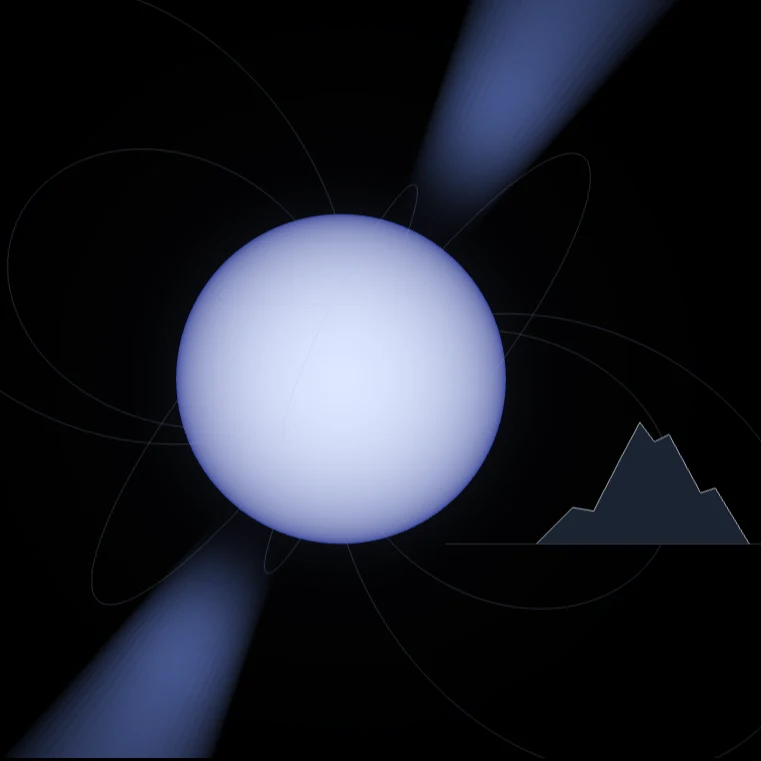
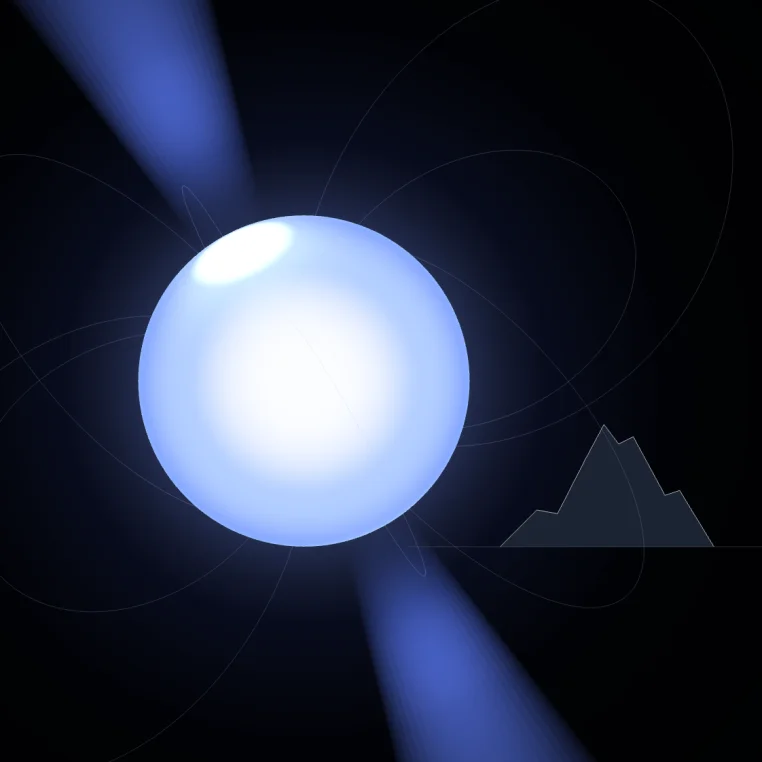
Restyle the neutron star scale and planets-at-Moon-distance simulations

diff --git a/src/components/simulations/planets-at-moon-distance/PlanetsAtMoonDistance.jsx b/src/components/simulations/planets-at-moon-distance/PlanetsAtMoonDistance.jsx
@@ -36,21 +36,51 @@ const SKY_VERTEX = /* glsl */ `
     gl_Position = projectionMatrix * modelViewMatrix * vec4(position, 1.0);
   }
 `;
-// Late dusk: warm near the horizon, deepening to night blue overhead, a little
-// brighter towards the set Sun (behind and to the right).
+// Late dusk: an orange band on the horizon, a rosy-violet layer above it, then
+// saturated twilight blue deepening to night overhead, a little brighter
+// towards the set Sun (behind and to the right). The first stars come out
+// where the sky is dark enough.
 const SKY_FRAGMENT = /* glsl */ `
   uniform vec3 uSun;
+  uniform float uTime;
+  uniform vec3 uBodyDir;
+  uniform float uBodyCos; // cos of the body's angular radius: no stars behind it
   varying vec3 vDir;
+  float hash(vec3 p) {
+    p = fract(p * vec3(443.897, 441.423, 437.195));
+    p += dot(p, p.yzx + 19.19);
+    return fract((p.x + p.y) * p.z);
+  }
   void main() {
     vec3 d = normalize(vDir);
     float h = max(d.y, 0.0);
-    vec3 zenith = vec3(0.004, 0.007, 0.022);
-    vec3 mid = vec3(0.016, 0.03, 0.08);
-    vec3 horizon = vec3(0.42, 0.2, 0.12);
-    vec3 col = mix(mid, zenith, smoothstep(0.05, 0.6, h));
-    col = mix(horizon, col, smoothstep(0.0, 0.14, h));
+    vec3 zenith = vec3(0.0015, 0.003, 0.016);
+    vec3 high = vec3(0.004, 0.012, 0.055);
+    vec3 low = vec3(0.012, 0.04, 0.13);
+    vec3 violet = vec3(0.12, 0.05, 0.13);
+    vec3 horizon = vec3(0.78, 0.26, 0.06);
+    vec3 col = mix(high, zenith, smoothstep(0.2, 0.75, h));
+    col = mix(low, col, smoothstep(0.06, 0.3, h));
+    col = mix(violet, col, smoothstep(0.02, 0.1, h));
+    col = mix(horizon, col, smoothstep(0.0, 0.045, h));
     float sunSide = pow(max(dot(normalize(vec3(d.x, 0.0, d.z)), normalize(vec3(uSun.x, 0.0, uSun.z))), 0.0), 3.0);
-    col += vec3(0.2, 0.09, 0.04) * sunSide * (1.0 - smoothstep(0.0, 0.25, h));
+    col += vec3(0.35, 0.12, 0.03) * sunSide * (1.0 - smoothstep(0.0, 0.2, h));
+
+    // Stars: one candidate per cell of a fine direction grid, fading out
+    // towards the brighter sky near the horizon, twinkling gently.
+    vec3 cell = floor(d * 260.0);
+    float r = hash(cell);
+    if (r > 0.985) {
+      vec3 centre = (cell + 0.5 + (vec3(hash(cell + 1.3), hash(cell + 2.7), hash(cell + 4.1)) - 0.5) * 0.6) / 260.0;
+      float dist = length(d - normalize(centre)) * 260.0;
+      float mag = pow((r - 0.985) / 0.015, 3.0);
+      float twinkle = 0.75 + 0.25 * sin(uTime * (1.5 + r * 40.0) + r * 100.0);
+      float star = smoothstep(0.55, 0.0, dist) * (0.25 + 1.6 * mag) * twinkle;
+      star *= smoothstep(0.08, 0.35, h);
+      star *= step(dot(d, uBodyDir), uBodyCos);
+      vec3 tint = mix(vec3(1.0, 0.85, 0.7), vec3(0.75, 0.85, 1.0), hash(cell + 7.7));
+      col += tint * star;
+    }
     gl_FragColor = vec4(col, 1.0);
     #include <colorspace_fragment>
   }
@@ -137,7 +167,12 @@ export default function PlanetsAtMoonDistance({ id = 'planets-at-moon-distance',
     // ---------- Sky ----------
     const sky = new THREE.Mesh(
       track(new THREE.SphereGeometry(2000, 64, 32)),
-      track(new THREE.ShaderMaterial({ vertexShader: SKY_VERTEX, fragmentShader: SKY_FRAGMENT, uniforms: { uSun: { value: SUN_DIR } }, side: THREE.BackSide, depthWrite: false })),
+      track(new THREE.ShaderMaterial({ vertexShader: SKY_VERTEX, fragmentShader: SKY_FRAGMENT, uniforms: {
+        uSun: { value: SUN_DIR },
+        uTime: { value: 0 },
+        uBodyDir: { value: skyDirection(AZIMUTH, ELEVATION) },
+        uBodyCos: { value: 1 },
+      }, side: THREE.BackSide, depthWrite: false })),
     );
     sky.renderOrder = -2;
     scene.add(sky);
@@ -170,6 +205,9 @@ export default function PlanetsAtMoonDistance({ id = 'planets-at-moon-distance',
         disposables.push({ dispose: saturn.dispose });
         saturn.planetMaterial.blending = THREE.AdditiveBlending;
         saturn.planetMaterial.transparent = true;
+        // Skip ACES on the planets: it greys out their colours.
+        saturn.planetMaterial.toneMapped = false;
+        saturn.ringMaterial.toneMapped = false;
         saturn.planetMesh.renderOrder = 1;
         saturn.ringMesh.renderOrder = 2;
         saturn.ringMaterial.blending = THREE.AdditiveBlending; // translucent and bright against the sky, like the planet
@@ -180,7 +218,7 @@ export default function PlanetsAtMoonDistance({ id = 'planets-at-moon-distance',
         tex.anisotropy = renderer.capabilities.getMaxAnisotropy();
         const mesh = new THREE.Mesh(
           track(new THREE.SphereGeometry(r, 96, 48)),
-          track(new THREE.MeshStandardMaterial({ map: tex, roughness: 1, metalness: 0, blending: THREE.AdditiveBlending, transparent: true })),
+          track(new THREE.MeshStandardMaterial({ map: tex, roughness: 1, metalness: 0, blending: THREE.AdditiveBlending, transparent: true, toneMapped: false })),
         );
         mesh.rotation.z = THREE.MathUtils.degToRad(body.key === 'uranus' ? 82 : 8);
         mesh.renderOrder = 1;
@@ -237,8 +275,12 @@ export default function PlanetsAtMoonDistance({ id = 'planets-at-moon-distance',
       }
       growT = Math.min(1, growT + dt / GROW_SECONDS);
       const e = 1 - (1 - growT) ** 3;
-      bodies[current].group.scale.setScalar(Math.exp(Math.log(growFrom) * (1 - e)));
+      const grow = Math.exp(Math.log(growFrom) * (1 - e));
+      bodies[current].group.scale.setScalar(grow);
+      // Hide the stars behind the disc (slightly larger, so none sit on the edge).
+      sky.material.uniforms.uBodyCos.value = Math.cos(Math.asin(Math.min(1, (BODIES[current].radiusKm / 1000 / D) * grow * 1.02)));
       bodies[current].spinner.update(dt);
+      sky.material.uniforms.uTime.value = now / 1000;
 
       const w = container.clientWidth;
       const h = container.clientHeight;

diff --git a/src/components/simulations/neutron-star-scale/NeutronStarScale.jsx b/src/components/simulations/neutron-star-scale/NeutronStarScale.jsx
@@ -85,6 +85,41 @@ const BEAM_FRAGMENT = /* glsl */ `
   }
 `;
 
+// Neutron star surface: white-hot centre fading to a saturated blue limb, a
+// thin bright rim, and two hot polar caps where the beams leave the surface
+// (uPole, in view space, follows the magnetic axis as the star turns).
+const NS_SURFACE_VERTEX = /* glsl */ `
+  varying vec3 vNormalView;
+  void main() {
+    vNormalView = normalize(normalMatrix * normal);
+    gl_Position = projectionMatrix * modelViewMatrix * vec4(position, 1.0);
+  }
+`;
+const NS_SURFACE_FRAGMENT = /* glsl */ `
+  uniform vec3 uPole;
+  uniform float uTime;
+  varying vec3 vNormalView;
+  void main() {
+    vec3 n = normalize(vNormalView);
+    float mu = clamp(n.z, 0.0, 1.0); // orthographic: view direction is +z
+    vec3 limb = vec3(0.10, 0.22, 0.95);
+    vec3 mid = vec3(0.45, 0.62, 1.0);
+    vec3 core = vec3(0.97, 0.98, 1.0);
+    vec3 col = mix(limb, mid, smoothstep(0.0, 0.7, mu));
+    col = mix(col, core, smoothstep(0.7, 1.0, mu));
+    // Hot polar caps with a soft halo, flickering slightly.
+    float d = abs(dot(n, uPole));
+    float cap = smoothstep(0.93, 0.985, d);
+    float halo = pow(d, 10.0) * 0.55;
+    float flicker = 0.92 + 0.08 * sin(uTime * 7.0);
+    col += vec3(0.75, 0.85, 1.0) * (cap + halo) * flicker;
+    // Thin rim where the glow takes over.
+    col += vec3(0.35, 0.5, 1.0) * pow(1.0 - mu, 6.0) * 0.8;
+    gl_FragColor = vec4(min(col, vec3(1.0)), 1.0);
+    #include <colorspace_fragment>
+  }
+`;
+
 // Dipole field line r = L sin²θ, in the plane at azimuth `phi` around the
 // magnetic axis (+y), from the star's surface out and back.
 const fieldLinePoints = (L, phi, radius) => {
@@ -216,6 +251,9 @@ export default function NeutronStarScale({ id = 'neutron-star-scale', aspect = '
     // Each has a filled look (when it is the current stage) and an outline at
     // its true radius (when a bigger object is on screen).
     let pulsar = null;
+    let magneticAxis = null;
+    let neutronSurface = null;
+    const poleQuat = new THREE.Quaternion();
     let earthBody = null;
     let blackHoleMaterial = null;
     const objects = OBJECTS.map((obj) => {
@@ -224,7 +262,26 @@ export default function NeutronStarScale({ id = 'neutron-star-scale', aspect = '
       let outlineColor;
       if (obj.kind === 'neutron') {
         // Hot (about a million degrees at the surface), so blue-white.
-        fill = glowingSphere(r, { deep: 0x22379a, bright: 0xdde6ff, limb: 1.3, glow: new THREE.Color(0x8faaff), glowOpacity: [0.45, 0.12] });
+        fill = new THREE.Group();
+        neutronSurface = track(new THREE.ShaderMaterial({
+          vertexShader: NS_SURFACE_VERTEX,
+          fragmentShader: NS_SURFACE_FRAGMENT,
+          uniforms: { uPole: { value: new THREE.Vector3(0, 1, 0) }, uTime: { value: 0 } },
+          toneMapped: false,
+        }));
+        const body = new THREE.Mesh(track(new THREE.SphereGeometry(r, 128, 64)), neutronSurface);
+        body.renderOrder = 1;
+        // Layered corona: a tight hot halo hugging the edge, then a wide blue haze.
+        const coronas = [
+          [0xcfdcff, 2.9, 0.85],
+          [0x5d82ff, 4.4, 0.45],
+          [0x3557ff, 8, 0.16],
+        ].map(([color, scale, opacity]) => {
+          const sprite = createGlowSprite(glowTexture, { color: new THREE.Color(color), scale: r * scale, opacity });
+          track(sprite.material);
+          return sprite;
+        });
+        fill.add(...coronas.reverse(), body);
         // Beams and field lines turn with the magnetic axis, which is tilted
         // from the spin axis (+y) and carried around it.
         const spin = new THREE.Group();
@@ -237,7 +294,7 @@ export default function NeutronStarScale({ id = 'neutron-star-scale', aspect = '
         const beamMat = track(new THREE.ShaderMaterial({
           vertexShader: BEAM_VERTEX,
           fragmentShader: BEAM_FRAGMENT,
-          uniforms: { uLength: { value: length }, uColor: { value: new THREE.Color(0xb8ccff) }, uOpacity: { value: 0.55 } },
+          uniforms: { uLength: { value: length }, uColor: { value: new THREE.Color(0xa4bbff) }, uOpacity: { value: 0.75 } },
           transparent: true,
           depthWrite: false,
           side: THREE.DoubleSide,
@@ -259,6 +316,7 @@ export default function NeutronStarScale({ id = 'neutron-star-scale', aspect = '
         spin.add(magnetic);
         fill.add(spin);
         pulsar = spin;
+        magneticAxis = magnetic;
         outlineColor = new THREE.Color(0xa9bfff);
       } else if (obj.kind === 'blackhole') {
         // One camera-facing quad; the shader draws the lensed sky, the event
@@ -401,6 +459,12 @@ export default function NeutronStarScale({ id = 'neutron-star-scale', aspect = '
       });
       everest.visible = current === 0;
       pulsar.rotation.y += (dt * Math.PI * 2) / SPIN_SECONDS;
+      if (current === 0) {
+        // Camera looks straight down -z, so world space is view space here.
+        pulsar.updateMatrixWorld(true);
+        neutronSurface.uniforms.uPole.value.set(0, 1, 0).applyQuaternion(magneticAxis.getWorldQuaternion(poleQuat));
+        neutronSurface.uniforms.uTime.value = now / 1000;
+      }
       earthBody.rotation.y += dt * 0.08;
 
       placeLabels(w, hgt, scale, current);
